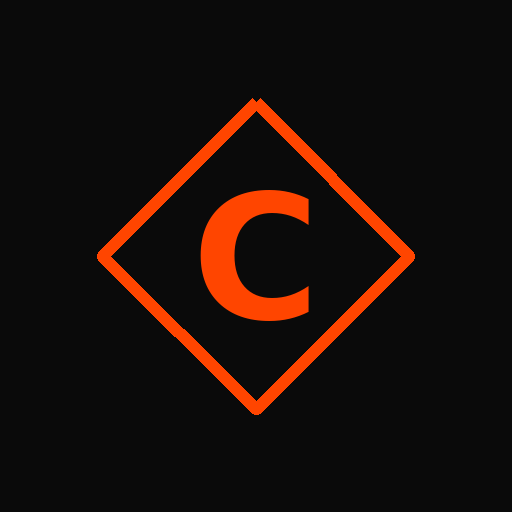
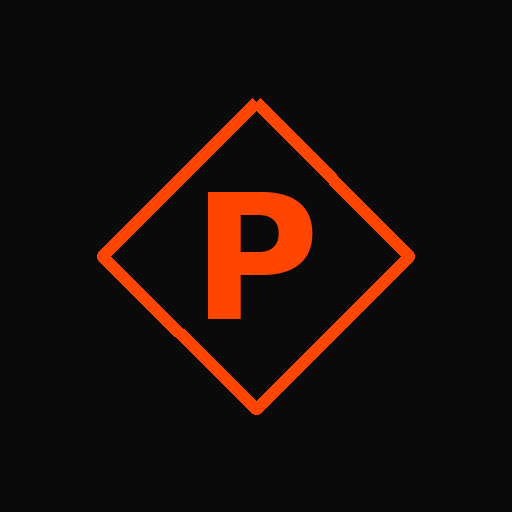
Add files via upload

Changed region(s): [[0.4062, 0.3438, 0.625, 0.625], [0.375, 0.4375, 0.4062, 0.5625], [0.4062, 0.375, 0.4688, 0.4375]]

diff --git a/index.html b/index.html
@@ -6,12 +6,12 @@
 <meta name="apple-mobile-web-app-capable" content="yes">
 <meta name="mobile-web-app-capable" content="yes">
 <meta name="apple-mobile-web-app-status-bar-style" content="black-translucent">
-<meta name="apple-mobile-web-app-title" content="Complete">
+<meta name="apple-mobile-web-app-title" content="PeakForm">
 <meta name="theme-color" content="#0A0A0A">
 <link rel="apple-touch-icon" href="apple-touch-icon.png">
 <link rel="icon" href="icon-192.png">
 <link rel="manifest" href="manifest.json">
-<title>Complete Tracker</title>
+<title>PeakForm</title>
 <style>
   html,body{margin:0;padding:0;background:#0A0A0A;-webkit-text-size-adjust:100%;}
   #boot{position:fixed;inset:0;display:flex;flex-direction:column;align-items:center;justify-content:center;background:#0A0A0A;color:#808080;font-family:-apple-system,sans-serif;}
@@ -31,7 +31,7 @@
 </script>
 </head>
 <body>
-<div id="boot"><div class="mk"></div><div>COMPLETE</div></div>
+<div id="boot"><div class="mk"></div><div style="letter-spacing:0.3em;font-size:13px;">PEAKFORM</div></div>
 <div id="root"></div>
 <script src="https://unpkg.com/@babel/standalone@7.24.7/babel.min.js"></script>
 <script type="text/babel" data-type="module" data-presets="react">
@@ -685,7 +685,7 @@ function App() {
     setScreen('home');
   };
 
-  // ─── COMPLETE SCORE (weekly avg + streak from storage) ──────────
+  // ─── PEAK SCORE (weekly avg + streak from storage) ──────────
   const [scoreData, setScoreData] = useState({ weekAvg: 0, streak: 0, todayTotal: null });
 
   const computeScoreData = async () => {
@@ -875,20 +875,20 @@ function HomeScreen({ onEnter, history, entry, activeSession, scoreData }) {
                 color: COLORS.accent,
                 position: 'relative',
                 zIndex: 1,
-              }}>C</div>
+              }}>P</div>
             </div>
             <div>
               <div className="display" style={{
                 fontSize: 14,
                 letterSpacing: '0.2em',
                 lineHeight: 1,
-              }}>COMPLETE</div>
+              }}>PEAKFORM</div>
               <div className="mono" style={{
                 fontSize: 8,
                 letterSpacing: '0.25em',
                 color: COLORS.textDim,
                 marginTop: 2,
-              }}>TRACKER SYSTEM</div>
+              }}>PERFORMANCE SYSTEM</div>
             </div>
           </div>
           <div style={{ display: 'flex', alignItems: 'center', gap: 6 }}>
@@ -964,7 +964,7 @@ function HomeScreen({ onEnter, history, entry, activeSession, scoreData }) {
             lineHeight: 0.88,
             letterSpacing: '0.005em',
           }}>
-            COMPLETE
+            PEAK
           </div>
           <div style={{
             display: 'flex',
@@ -987,7 +987,7 @@ function HomeScreen({ onEnter, history, entry, activeSession, scoreData }) {
             lineHeight: 0.88,
             letterSpacing: '0.005em',
           }}>
-            TRACKER
+            FORM
           </div>
 
           {/* Flourished tagline */}
@@ -1019,7 +1019,7 @@ function HomeScreen({ onEnter, history, entry, activeSession, scoreData }) {
         </div>
       </div>
 
-      {/* COMPLETE SCORE */}
+      {/* PEAK SCORE */}
       <div style={{ padding: '0 24px', marginBottom: 28 }}>
         <ScoreRing
           score={score.total}
@@ -1153,7 +1153,7 @@ function HomeScreen({ onEnter, history, entry, activeSession, scoreData }) {
           letterSpacing: '0.35em',
           marginBottom: 8,
         }}>
-          COMPLETE TRACKER
+          PEAKFORM
         </div>
         <div className="mono" style={{
           textAlign: 'center',
@@ -1220,7 +1220,7 @@ function ScoreRing({ score, weekAvg, streak, onTap }) {
           justifyContent: 'center',
         }}>
           <div className="mono" style={{ fontSize: 9, letterSpacing: '0.3em', color: COLORS.textDim, marginBottom: 2 }}>
-            COMPLETE SCORE
+            PEAK SCORE
           </div>
           <div className="display" style={{ fontSize: 64, lineHeight: 0.9, color }}>
             {score}
@@ -1317,7 +1317,7 @@ function ScoreBreakdownModal({ score, onClose }) {
         <div style={{ display: 'flex', justifyContent: 'space-between', alignItems: 'center', marginBottom: 24 }}>
           <div>
             <div className="mono" style={{ fontSize: 9, letterSpacing: '0.25em', color: COLORS.textDim, marginBottom: 4 }}>
-              COMPLETE SCORE
+              PEAK SCORE
             </div>
             <div className="display" style={{ fontSize: 40, lineHeight: 1, color: scoreColor(score.total) }}>
               {score.total}<span style={{ fontSize: 16, color: COLORS.textDim }}>/100</span>
